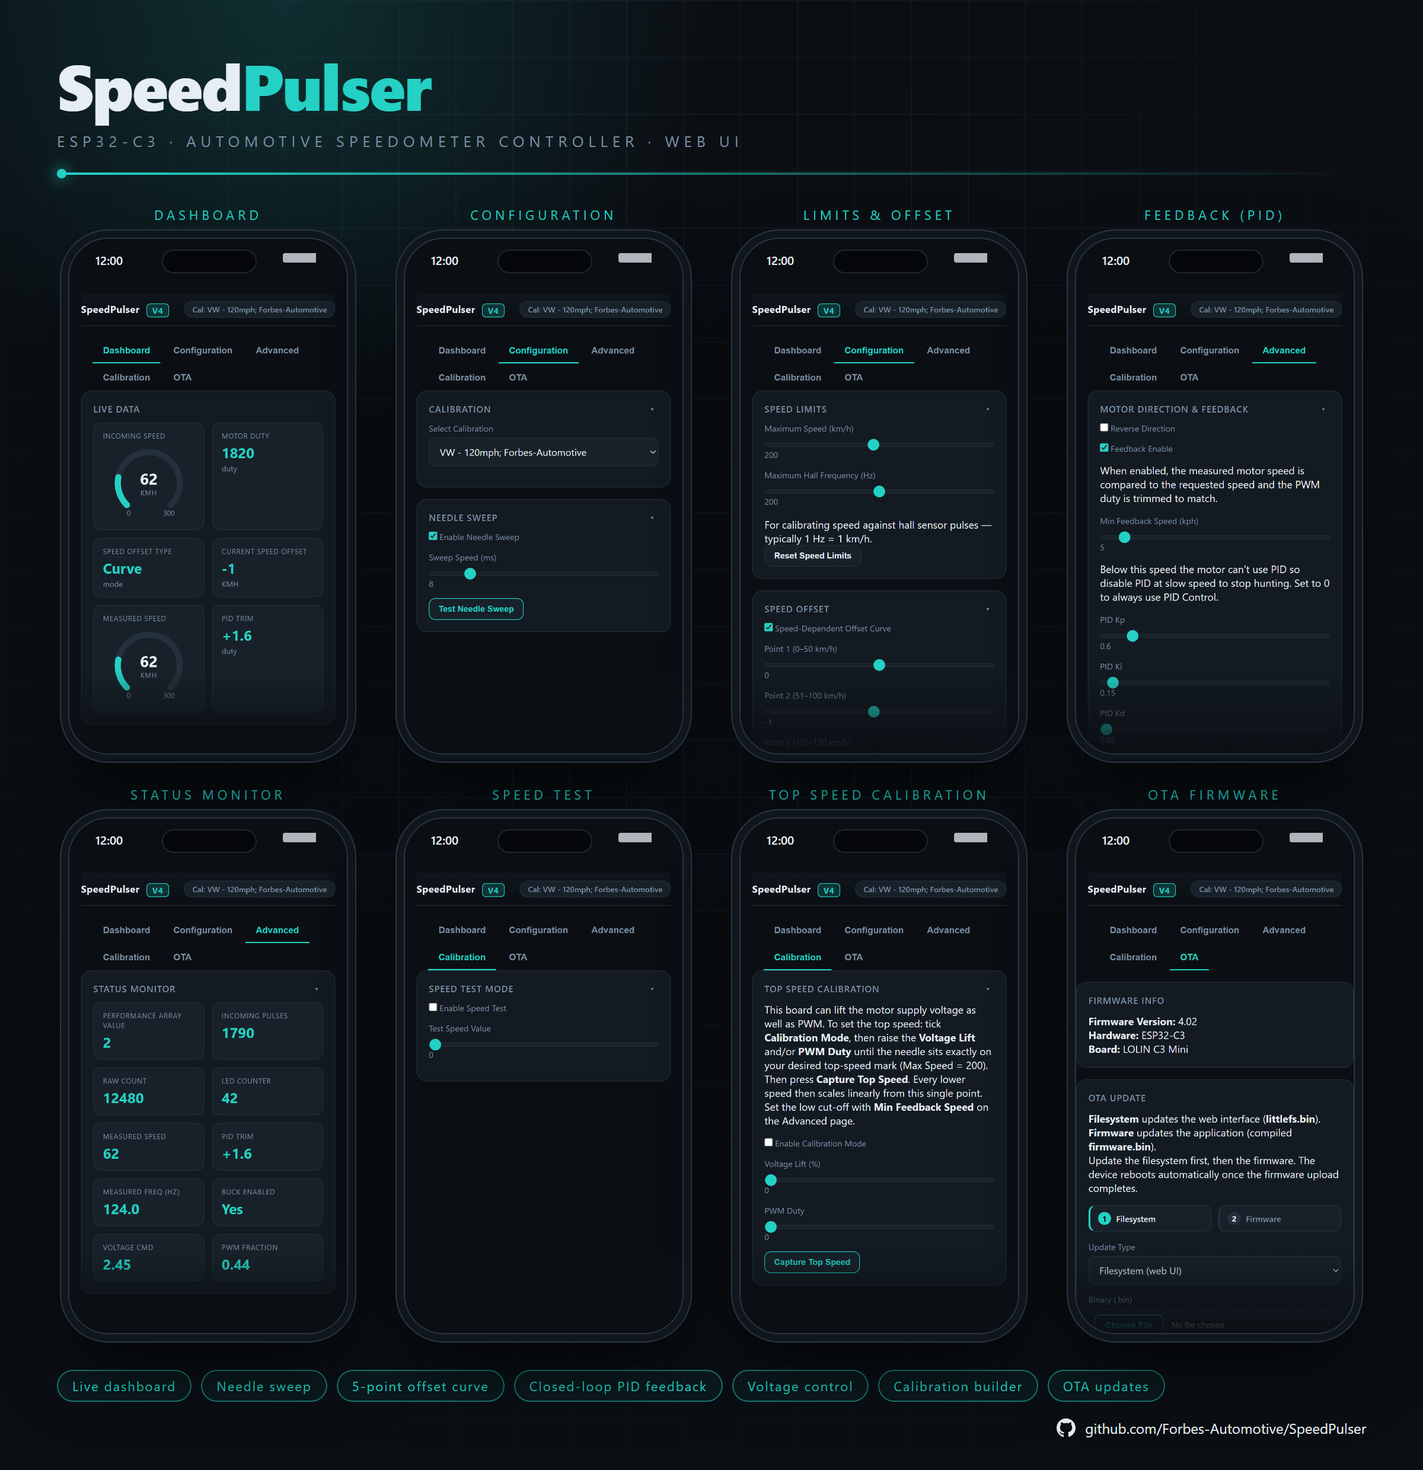
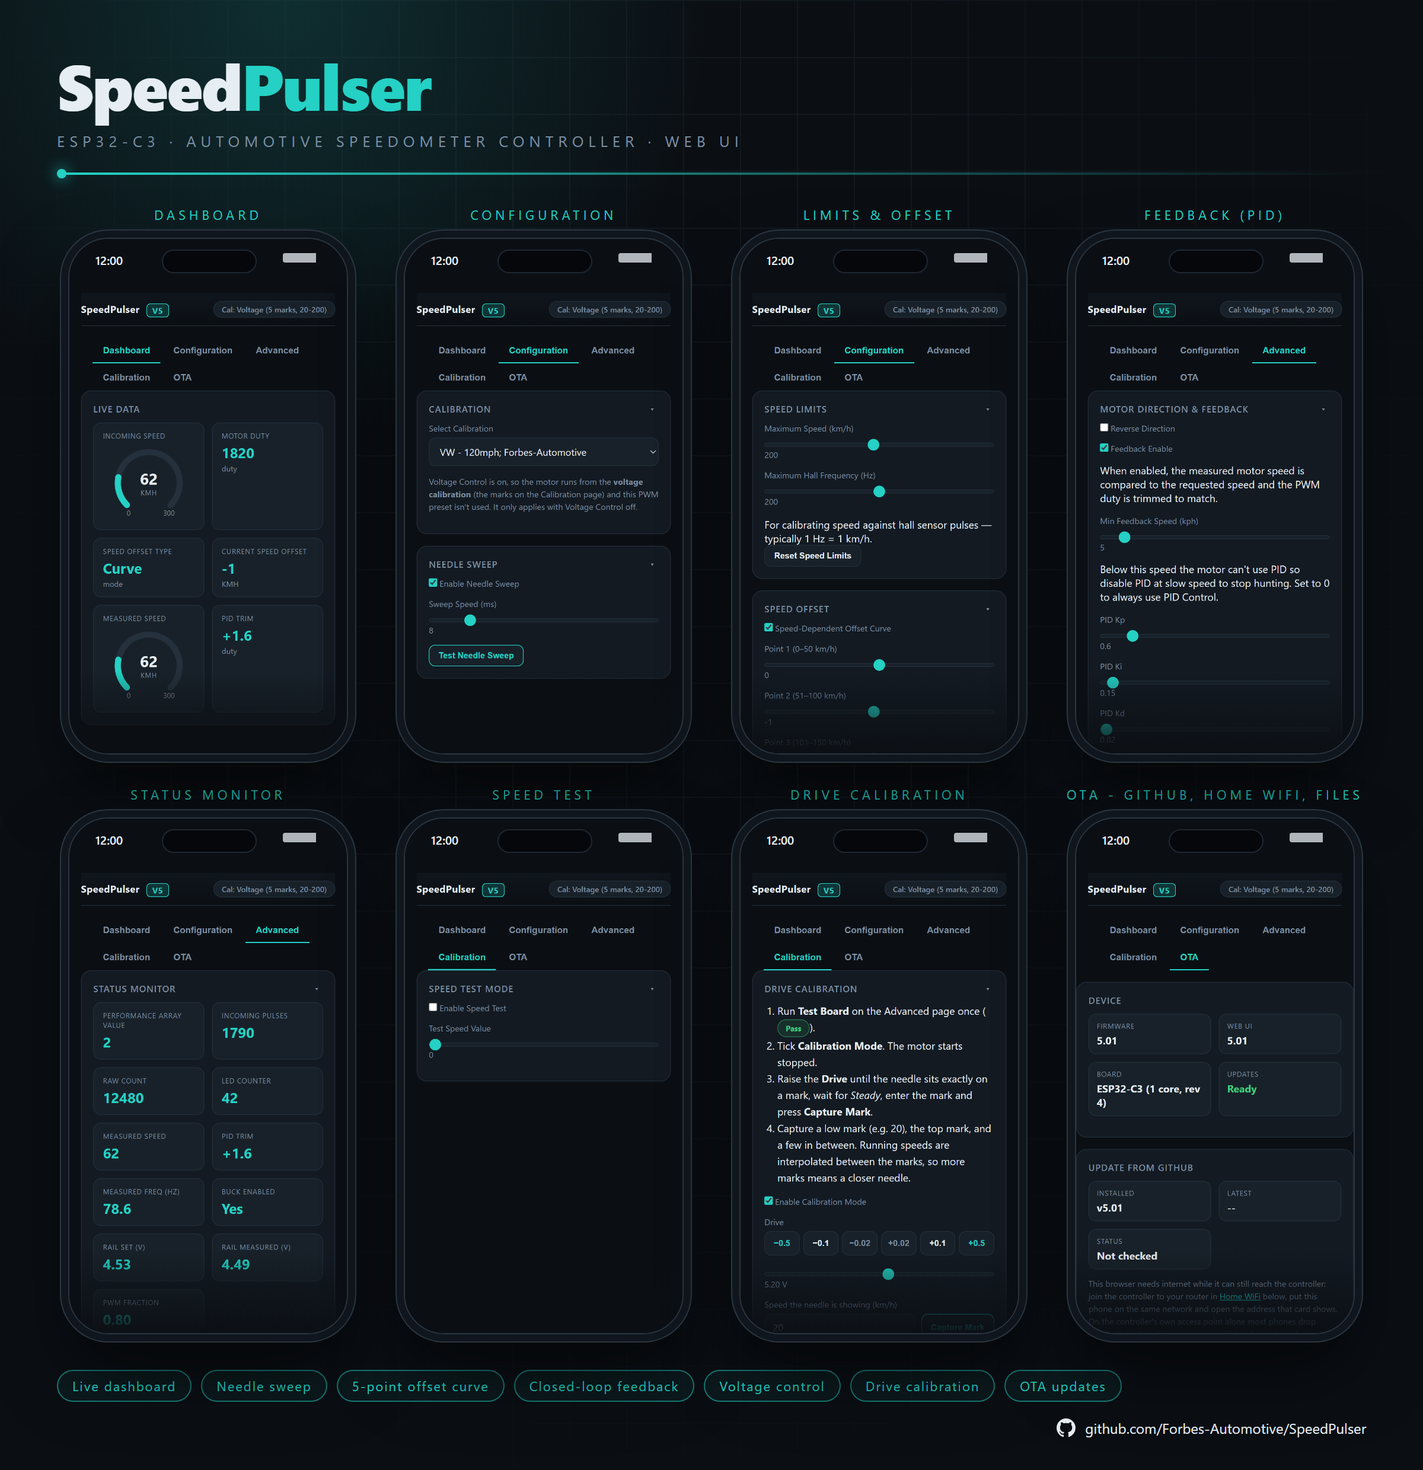
Readme & Images

diff --git a/README.md b/README.md
@@ -4,9 +4,9 @@ The SpeedPulser converts digital speed pulses from a gearbox hall sensor (or a [
 
 It is based on a **LOLIN C3 Mini (ESP32-C3)** and uses a **TY3816B** BLDC motor driven via a native LEDC hardware PWM channel.
 
-![SpeedPulser Web UI — dashboard, configuration, limits & offset, PID feedback, status monitor, speed test, top-speed calibration and OTA](/Images/speedPulserUI.png)
+![SpeedPulser Web UI — dashboard, configuration, limits & offset, PID feedback, status monitor, speed test, drive calibration and OTA](/Images/speedPulserUI.png)
 
-![SpeedPulser Web UI — voltage control, calibration builder and export / import](/Images/speedPulserUI-2.png)
+![SpeedPulser Web UI — board test, voltage control, legacy calibration builder and export / import](/Images/speedPulserUI-2.png)
 
 ---
 
@@ -16,15 +16,19 @@ It is based on a **LOLIN C3 Mini (ESP32-C3)** and uses a **TY3816B** BLDC motor 
 |---|---|
 | Speed input | 5V / 12V square-wave (hall sensor or Can2Cluster) |
 | Motor output | 10 kHz hardware PWM, 12-bit resolution |
-| Closed-loop feedback | PID trims duty from the motor feedback pin (optional) |
+| One firmware, every board | A strap on GPIO3 is read at power-up: V4 / V5 boards get voltage control, older PWM-only boards run exactly as before |
+| Voltage control *(V4 / V5 PCB)* | One **drive** value (motor rail volts × PWM) runs the motor, so even the slowest speeds are reachable |
+| Drive calibration *(V5 PCB)* | Up to 10 needle marks captured on the car; running speeds are interpolated between them |
+| Board test *(V5 PCB)* | Motor-rail read-back on GPIO1; **Test Board** steps the rail to 5 / 7.5 / 10 V and checks each one |
+| Closed-loop feedback | PID trims duty from the motor feedback pin (optional); on a voltage board, one slow trim on the calibrated drive |
 | Calibration profiles | 18 built-in (VW, Ford, Fiat, Merc, Smiths, Opel, VW Bay) |
-| Custom calibration | Calibration Builder — capture, generate, save, export/import |
+| Custom calibration | Calibration Builder (legacy boards) — capture, generate, save, export/import |
 | Calibration Curve | Live duty-vs-speed curve with the current operating point on the Dashboard |
 | Status Monitor | Live measured speed, PID trim and actual motor speed (Hz) |
 | WiFi UI | Web app type interface |
 | Needle sweep | Configurable on power-up |
 | Speed offset | Global fixed offset **or** 5-point speed-dependent curve |
-| OTA updates | Firmware upload from the browser |
+| OTA updates | Update from GitHub or by file upload on the OTA tab; Home Wi‑Fi bridge mode; recovery page if the web UI is ever lost |
 | Power management | Auto WiFi-off + CPU scaling after 1 min idle |
 | Remembers settings | All settings stored to ESP32 Preferences (NVS/EEPROM) |
 
@@ -144,7 +148,7 @@ Take time here — good fitment minimises noise and extends coupler life.
 
 Connect to the **`SpeedPulser`** WiFi access point (open network) and navigate to **`192.168.1.1`** or **`speedpulser.local`** in a browser.
 
-The interface is a single-page app served from the ESP32's LittleFS flash partition, built on Forbes Automotive's shared dark theme (the same look used across OpenHaldex, Can2Cluster, SpeedPulserPro, can2rpm, the MQB Steering Wheel Controller and AirLift Controller). Settings are applied in real time and saved to EEPROM automatically every 2 seconds. Current firmware version: **4.01**.
+The interface is a single-page app served from the ESP32's LittleFS flash partition, built on Forbes Automotive's shared dark theme (the same look used across OpenHaldex, Can2Cluster, SpeedPulserPro, can2rpm, the MQB Steering Wheel Controller and AirLift Controller). Settings are applied in real time and saved to EEPROM automatically every 2 seconds. A long press on a phone doesn't highlight text (text boxes can still be selected). Current firmware version: **5.01**.
 
 **Status colours:** most tiles use plain text rather than colour, but a per-tile dial gauge (Incoming Speed / Motor Duty) turns **orange/amber** whenever **Speed Test Mode** or **Calibration Mode** is driving the motor — a reminder that the value shown is a synthetic test value, not a live vehicle reading. A missing motor-feedback signal (legacy PCBs without the feedback circuit) shows as plain **N/A** rather than a coloured warning.
 
@@ -199,35 +203,43 @@ While **Speed Test Mode** is active, these fields switch to show the chosen test
 
 | Setting | Description |
 |---|---|
+| Board Type / Board Test | Which board this is (read from the GPIO3 strap at power-up) and the result of the last **Test Board** |
+| Motor Rail *(V5 PCB)* | The motor supply voltage, read back on GPIO1 |
+| Test Board *(V5 PCB)* | Stops the motor for a few seconds, steps the rail to 5, 7.5 and 10 V and reads each back. A pass proves the voltage injection and the rail sense, and stores this board's own voltage line. Run it once on a new board, on a 12 V+ supply |
 | Reverse Direction | Drive the direction pin HIGH to flip the motor direction |
-| Feedback Enable | Turn the closed-loop PID duty trim on or off (**not available on legacy PCBs**) |
+| Feedback Enable | Turn the closed-loop feedback trim on or off (**not available on legacy PCBs**) |
 | Min Feedback Speed (km/h) | Below this speed the loop runs open-loop (feed-forward only) to stop low-speed hunting; 0 = always closed-loop |
-| PID Kp / Ki / Kd | Feedback loop gains (defaults 0.15 / 1.3 / 0) |
+| PID Kp / Ki / Kd | Feedback loop gains (defaults 0.15 / 1.3 / 0); used on legacy boards and with Voltage Control off |
 | PID Deadband (Hz) | Feedback error (in Hz) ignored by the loop, to stop the needle dithering |
 | Reset PID Defaults | Restore the tuned default gains |
-| Voltage Control *(V4 PCB only)* | Enable the closed-loop **buck-converter voltage** trim and set its nominal / minimum PWM, voltage range, trim gain and loop gains |
+| Voltage Control *(V4 / V5 PCB)* | Enable the **drive** control (rail volts × PWM) and set Nominal PWM, Maximum Rail, Feedback Trim Gain and Feedback Trim Limit |
 | Performance Array Value | Index of the active calibration array |
 | Incoming Pulses | Raw frequency value from the ISR |
 | Raw Count | Number of samples accumulated so far |
 | LED Counter | ISR pulse counter (also drives the onboard LED blink) |
+| Rail Set / Rail Measured (V) | The motor rail the firmware asked for, and what GPIO1 reads back |
 
 <p align="center">
-  <img src="/Images/ui-advanced.png" alt="Advanced tab — motor direction, feedback enable, min feedback speed, PID gains and deadband" width="300">
+  <img src="/Images/ui-board.png" alt="Advanced tab — Board card: board type, board test result, motor rail, the 5 / 7.5 / 10 V test steps and the Test Board button" width="300">
   &nbsp;&nbsp;
-  <img src="/Images/ui-status.png" alt="Advanced tab — live status monitor: performance array, incoming pulses, raw count, LED counter, measured speed / frequency, PID trim, buck state, voltage command and PWM fraction" width="300">
+  <img src="/Images/ui-advanced.png" alt="Advanced tab — motor direction, feedback enable, min feedback speed, PID gains and deadband" width="300">
 </p>
-> **Reverse Direction** drives GPIO 10 HIGH instead of LOW, flipping the rotation direction for clusters whose motor is mounted the opposite way round.
-> **Feedback Enable** turns the closed-loop PID trim on; the sliders below it tune the loop and **Reset PID Defaults** restores the tuned baseline (0.15 / 1.3 / 0). See [Closed-Loop Feedback (PID)](#closed-loop-feedback-pid) below for how it works.
+<p align="center">
+  <img src="/Images/ui-status.png" alt="Advanced tab — live status monitor: performance array, incoming pulses, raw count, LED counter, measured speed / frequency, PID trim, buck state, rail set / measured and PWM fraction" width="300">
+</p>
 
-On a **V4 PCB** the Advanced tab also shows **Voltage Control**. This is a mid-ranging scheme: the fast PID loop above trims PWM duty to hit the target speed, while a slow loop nudges the buck-converter voltage so the PWM stays near its **Nominal PWM** working point (between the **Minimum / Maximum Voltage** limits). Turn it off to fall back to fixed full-voltage PWM, i.e. legacy behaviour.
+> **Reverse Direction** drives GPIO 10 HIGH instead of LOW, flipping the rotation direction for clusters whose motor is mounted the opposite way round. **From V5.01 unticked (LOW) is the normal direction on every board.** Earlier firmware had this backwards, so updating to V5.01 resets the setting to unticked: if you had ticked Reverse to make the needle run the right way, leave it unticked now.
+> **Feedback Enable** turns the closed-loop trim on; the sliders below it tune the loop and **Reset PID Defaults** restores the tuned baseline (0.15 / 1.3 / 0). See [Closed-Loop Feedback (PID)](#closed-loop-feedback-pid) below for how it works.
+
+On a **V4 / V5 PCB** the Advanced tab also shows **Voltage Control**. The motor is driven with one **drive** value: motor rail volts × PWM. Above *3.0 V × Nominal PWM* the PWM stays at Nominal and only the rail moves, which keeps low speeds smooth; below that the rail stays at its 3.0 V minimum and the PWM falls to zero, so the drive reaches all the way down to a stopped needle. Running speeds come from the marks captured in **Drive Calibration**. **Maximum Rail** caps the motor supply (up to 12 V). Untick Voltage Control to fall back to the fixed 9 V rail and the PWM presets, i.e. legacy behaviour. Changing these settings after calibrating moves the needle, so recapture the marks.
 
 <p align="center">
-  <img src="/Images/ui-voltage-control.png" alt="Advanced tab — Voltage Control card: enable, nominal and minimum PWM, minimum / maximum voltage, trim gain and PWM loop gains" width="300">
+  <img src="/Images/ui-voltage-control.png" alt="Advanced tab — Voltage Control card: enable, Nominal PWM, Maximum Rail, Feedback Trim Gain and Feedback Trim Limit" width="300">
 </p>
 
 ### Calibration Tab
 
-Contains **Speed Test Mode**, **Export / Import** and — depending on the board — either the **Top Speed Calibration** card (V4 PCB, which can lift the motor supply voltage) or the multi-point **Calibration Builder** (earlier PCBs).
+Contains **Speed Test Mode**, **Export / Import** and — depending on the board — either the **Drive Calibration** card (voltage boards with Voltage Control on) or the multi-point **Calibration Builder** (earlier PCBs, or Voltage Control off).
 
 **Speed Test Mode**  
 Locks the motor to a user-chosen speed so the cluster can be observed
@@ -236,19 +248,28 @@ calibration process, to give a realistic preview. With feedback enabled the clos
 loop drives to that speed; the dashboard updates in real time to show the chosen speed
 and the resulting motor duty.
 
-**Top Speed Calibration** *(V4 PCB)*  
-Tick **Enable Calibration Mode**, then raise **Voltage Lift** and/or **PWM Duty** until the
-needle sits exactly on the top-speed mark (the Maximum Speed set on the Configuration tab)
-and press **Capture Top Speed**. Every lower speed then scales linearly from that single
-point; the low cut-off is **Min Feedback Speed** on the Advanced tab.
+**Drive Calibration** *(voltage boards)*  
+
+1. Run **Test Board** on the Advanced tab once (the card shows its result).
+2. Tick **Enable Calibration Mode**. The motor starts stopped.
+3. Raise the **Drive** (the −0.5 … +0.5 buttons or the slider) until the needle sits exactly on a
+   mark, wait for **Steady**, type the speed the needle shows and press **Capture Mark**.
+4. Capture a low mark (e.g. 20), the top mark and a few in between, up to 10. Running speeds
+   are interpolated between the marks, so more marks means a closer needle; nothing runs
+   past the top mark.
+
+Each mark stores the speed, motor tacho Hz, drive, rail and PWM, and the read-outs show them
+live while you set it up. *Steady* waits for the tacho to stop drifting, so low-speed motor
+cogging doesn't block a capture. A mark can be removed with its ✕, or all of them with
+**Clear All Marks**. A V5.00 top-speed point is carried over as the first mark.
 
 <p align="center">
   <img src="/Images/ui-speed-test.png" alt="Calibration tab — Speed Test Mode with enable and test speed slider" width="300">
   &nbsp;&nbsp;
-  <img src="/Images/ui-top-speed.png" alt="Calibration tab — Top Speed Calibration (V4): calibration mode, voltage lift, PWM duty and Capture Top Speed" width="300">
+  <img src="/Images/ui-drive-cal.png" alt="Calibration tab — Drive Calibration: steps, calibration mode, drive buttons and slider, Capture Mark, live drive / rail / PWM / motor Hz read-outs and the captured marks table" width="300">
 </p>
 
-**Calibration Builder** *(earlier PCBs)*  
+**Calibration Builder** *(earlier PCBs, or Voltage Control off)*  
 
 1. Tick **Enable Calibration Mode** — the motor now follows the big duty read-out instead
    of the speed source.
@@ -260,10 +281,12 @@ point; the low cut-off is **Min Feedback Speed** on the Advanced tab.
    live and **Save to Device** to store it.
 
 **Export / Import**  
-**Export Text** saves the active calibration as a `.txt` you can share or back up and
-**Import Text** loads one back and applies it. **Export C-Array** writes a paste-ready
-firmware preset (a `motorPerformanceN[]` table plus its `calibrationProfiles[]` line) for
-building a calibration in permanently.
+**Export Voltage Cal** *(voltage boards)* saves the Drive Calibration marks plus the Nominal
+PWM and Maximum Rail they were captured with. **Export PWM Cal** saves the Calibration Builder
+calibration. Each file is tagged with its type, and the one **Import Text** button loads
+whichever kind it is and applies it. **Export PWM C-Array** writes a paste-ready firmware preset
+(a `motorPerformanceN[]` table plus its `calibrationProfiles[]` line) for building a
+calibration in permanently.
 
 <p align="center">
   <img src="/Images/ui-calibration.png" alt="Calibration tab — Calibration Builder: calibration mode, duty jog buttons, target speed grid, capture point, name, Generate & Apply and Save to Device" width="300">
@@ -274,9 +297,9 @@ building a calibration in permanently.
 
 ### OTA Tab
 
-Upload a new compiled `.bin` firmware file directly from the browser — no USB cable required. Two steps: the **Filesystem** image (`littlefs.bin`, the web UI) first, then the **Firmware** image (`firmware.bin`); the step tracker marks each as it completes and the device reboots automatically after the firmware step. See [Over-the-Air Updates](#over-the-air-updates-two-step).
+Three cards: **Update from GitHub** (check, pick a version, install in six tracked steps), **Home WiFi (Bridge Mode)** (join your router so the phone has internet and the controller at once) and **Update from Files** (`littlefs.bin` then `firmware.bin`, no internet needed). See [Over-the-Air Updates](#over-the-air-updates).
 
-<p align="center"><img src="/Images/ui-ota.png" alt="OTA tab — firmware info and the two-step filesystem / firmware uploader" width="300"></p>
+<p align="center"><img src="/Images/ui-ota.png" alt="OTA tab — Update from GitHub, Home WiFi bridge mode and Update from Files" width="300"></p>
 
 ---
 
@@ -304,6 +327,12 @@ cluster combination; the integral term carries most of the correction. Adjust fr
 Advanced tab if needed, and use **Reset PID Defaults** to return to the tuned values.
 The Status Monitor shows the live measured speed, the PID trim being applied and the raw
 tacho frequency so you can see the loop working.
+
+**On a voltage board** (Voltage Control on) the PID gains aren't used. Instead, one slow trim
+nudges the calibrated drive to hold the motor speed captured for each mark. It only works
+with Feedback Enable on, a working tacho, above Min Feedback Speed and outside the PID
+Deadband, and it can never move the drive by more than **Feedback Trim Limit** (default
+±20 %), so it can't fight the calibration. **Feedback Trim Gain** sets how quickly it acts.
 
 ---
 
@@ -411,22 +440,15 @@ As soon as a device reconnects to the WiFi AP, full power is restored automatica
 
 ---
 
-## Over-the-Air Updates (Two-Step)
+## Over-the-Air Updates
 
-New firmware can be flashed without removing the unit from the vehicle. Firmware and the web UI live on separate flash partitions, so updating is a **two-step process** using the shared `ota_manager` module:
+Everything happens on the **OTA** tab; USB is only needed for the very first install, or if the web interface is ever lost.
 
-1. **Filesystem** — in the **OTA** tab, select **Filesystem (web UI)** and upload `littlefs.bin` (`POST /api/ota/fs`, written to the SPIFFS partition). This updates `index.html` / `app.js` / `style.css`; the device does **not** reboot after this step, so you can go straight on to step 2.
-2. **Firmware** — select **Firmware (application)** and upload `firmware.bin` (`POST /api/ota`, written to the OTA app partition). The device reboots automatically once this completes.
+- **Update from GitHub** — press **Check for updates**. The page reads the release list from [`Forbes-Automotive/speedPulser`](https://github.com/Forbes-Automotive/speedPulser) (`Releases/releases.json` plus the `V…` folders), shows *Installed* vs. *Latest* (older and beta releases sit behind a tick-box, for rolling back), then installs the selected version in six tracked steps: download and flash the web UI, verify it, download and flash the firmware, reboot. The browser needs internet *while it can still reach the controller* — join the controller to your router in the **Home WiFi (Bridge Mode)** card, put the phone on the same network and open the address the card shows (`http://speedpulser.local/` works there too). On the controller's own access point alone most phones drop mobile data.
+- **Home WiFi (Bridge Mode)** — the controller joins a home or garage network as a station alongside its own access point. Scan or type the network name, save, and once it shows *Connected* the controller is reachable from that network as well. It tries hard for 20 s after boot, then once every 5 minutes, so a saved network can't disturb the access point when the car is parked away from home.
+- **Update from Files** — no internet needed: download `littlefs.bin` and `firmware.bin` from the newest `Releases/V…/` folder and upload them here, **Filesystem** (web UI) first, then **Firmware**. The device reboots after the firmware.
 
-Steps in full:
-
-1. Build the project in PlatformIO → locate `firmware.bin` in `.pio/build/lolin_c3_mini/` and `littlefs.bin` under the filesystem build output.
-2. Connect to the `SpeedPulser` WiFi AP (or `speedpulser.local`).
-3. Open the **OTA** tab in the browser.
-4. Upload the filesystem image first, then the firmware image.
-5. The device flashes and reboots automatically after the firmware step.
-
-`GET /api/ota/info` reports the running version, board and hardware.
+Every upload is size-checked, and a filesystem image is verified by mounting it before the device reports success — a failed filesystem upload is wiped rather than left half-written. If the web interface is ever missing (a filesystem update that stopped part-way), the controller serves a **recovery page** at its address with the same two uploads and partition diagnostics, so it is never a USB job. Web assets are served `no-cache`, so a new UI is never hidden behind a stale copy in the phone's browser. `GET /api/ota/info` reports the firmware and web UI versions shown at the top of the tab; `GET /api/ota/check` gates updates on the device being in a safe state.
 
 ---
 
@@ -436,9 +458,13 @@ Steps in full:
 
 | GPIO | Function |
 |---|---|
+| 1 | Motor rail read-back, V_MOT_SENSE (V5 PCB; 39k / 10k divider) |
 | 2 | Motor PWM output (LEDC 12-bit, stepped to 5 V via NPN transistor) |
-| 4 | Motor tacho feedback input (falling-edge interrupt counter; used by the PID loop) |
+| 3 | Board strap, read at power-up (1k to GND = voltage board, open = legacy PWM-only board) |
+| 4 | Motor tacho feedback input (falling-edge interrupt counter; used by the feedback loop) |
 | 5 | Speed pulse input (falling-edge interrupt) |
+| 6 | V_ADJ: PWM "DAC" into the motor buck converter's feedback (V4 / V5 PCB; higher V_ADJ = lower rail) |
+| 7 | EN_ADJ: motor buck converter enable (V4 / V5 PCB) |
 | 8 | Onboard LED (blinks to confirm incoming pulses) |
 | 10 | Motor direction (LOW = normal, HIGH = reversed) |
 
@@ -484,7 +510,7 @@ Platform: `pioarduino/platform-espressif32` (Arduino-ESP32 3.x / ESP-IDF 5.x)
 5. **Build & Upload** — flashes the main firmware.
 6. Open the Serial Monitor at 115 200 baud to confirm startup messages.
 
-> Serial debug output is controlled by `-D serialDebug=1` in `platformio.ini`. Set to `0` for production builds to avoid stalling if no USB-CDC host is connected.
+> Serial debug output is controlled by `-D enableDebug=1` in `platformio.ini`. Set to `0` for production builds to avoid stalling if no USB-CDC host is connected.
 
 ---
 
@@ -513,3 +539,8 @@ Platform: `pioarduino/platform-espressif32` (Arduino-ESP32 3.x / ESP-IDF 5.x)
 | V3.02 | Smoother needle sweep | 
 | V3.0x | Various multiple tweaks |
 | V3.10 | Tighter PID control, feedback check for legacy PCBs etc |
+| V4.00 | Hardware voltage control (V4 PCB): one firmware for legacy and V4 boards, auto-detected from the GPIO3 strap |
+| V4.01 | Shared Forbes Automotive UI theme; common WiFi and OTA modules |
+| V4.02 | OTA overhaul: update from GitHub, Home WiFi bridge mode, recovery page |
+| V5.00 | V5 PCB: motor-rail read-back, Test Board, top-speed calibration by rail voltage |
+| V5.01 | Drive calibration (up to 10 marks, slowest speeds reachable), one slow feedback trim, Reverse Direction corrected (unticked = normal; resets on update), voltage cal export / import, long press on a phone no longer highlights text |
